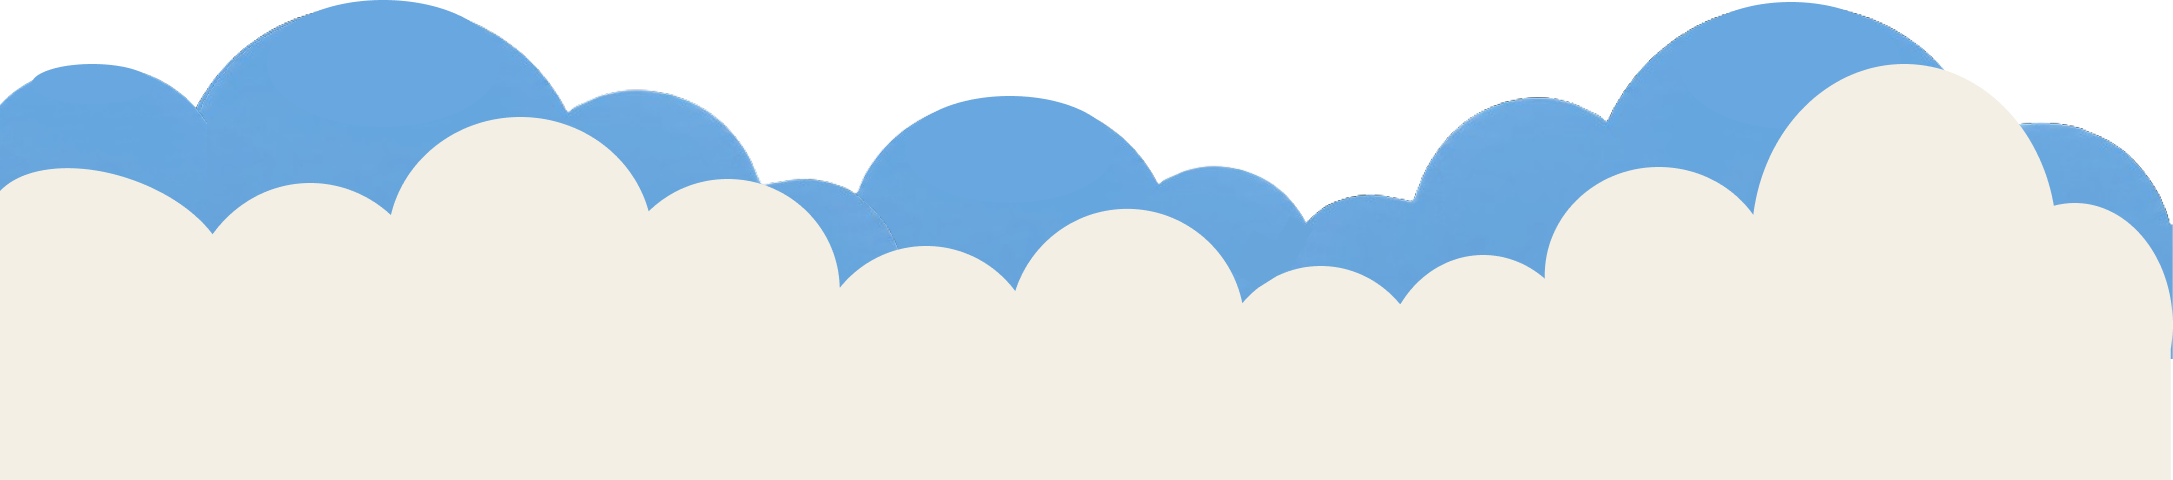
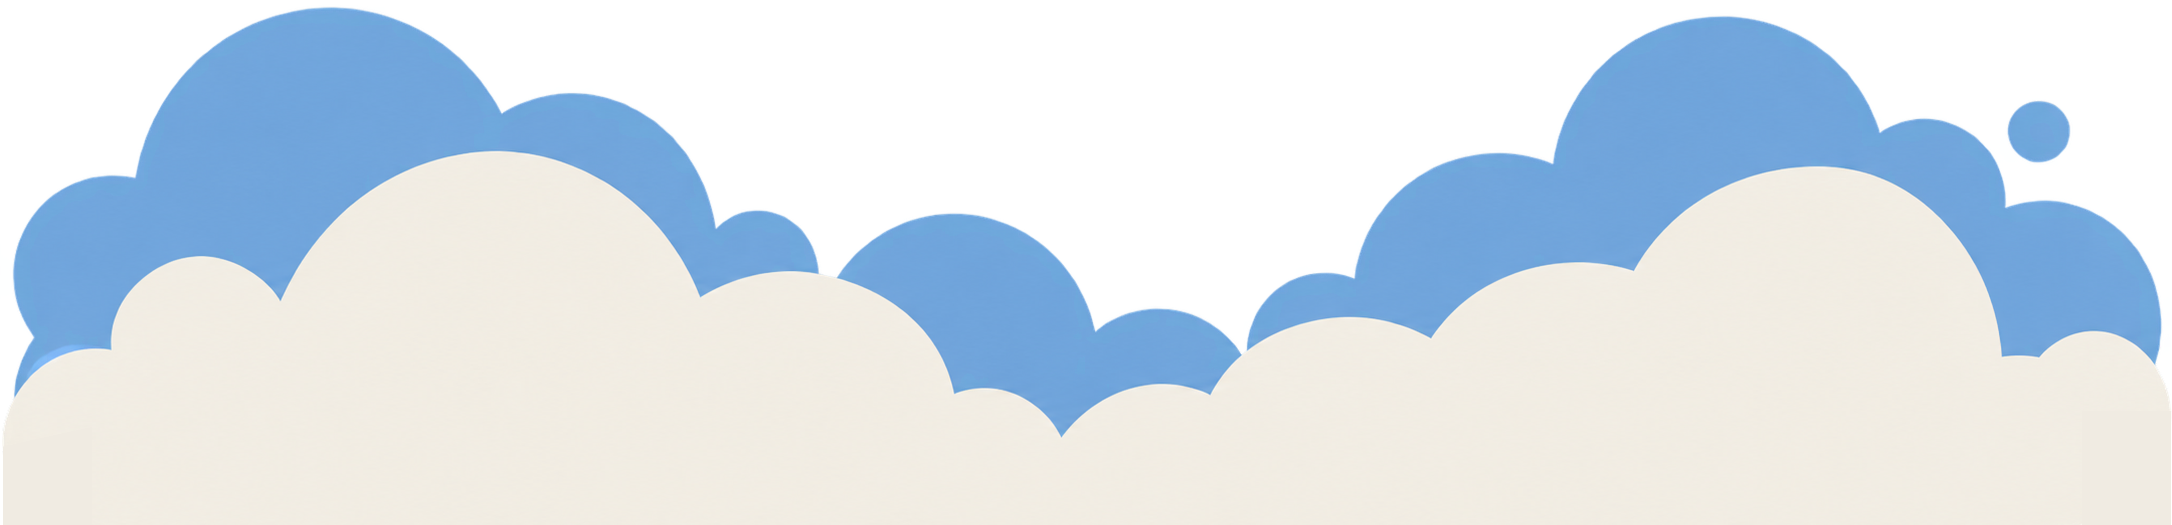
redesign hero-section

Changed region(s): [[0.0, 0.0, 1.0, 0.8125]]

diff --git a/components/user/landing/hero-section.tsx b/components/user/landing/hero-section.tsx
@@ -1,61 +1,63 @@
+"use client";
+
 import Navbar from "@/components/user/navbar";
 import HeroRobot from "@/components/user/landing/robot";
 import Awan from "@/components/user/landing/awan";
 import Link from "next/link";
-import { ArrowRight, Play, Bot, Rocket, Smile } from "lucide-react";
+import { ArrowRight, Play, Bot, Rocket, BookOpen } from "lucide-react";
 
 export default function HeroSection() {
   return (
-    <section className="relative bg-accent-blue pt-4 pb-53 sm:pb-64 overflow-visible">
+    <section className="relative bg-[#175B92] pt-4 pb-20 sm:pb-32 lg:pb-48 overflow-visible">
       {/* Navigation Bar */}
-      <header className="relative z-20 px-4 mb-6 md:mb-10 w-full flex justify-center">
+      <header className="relative z-20 px-4 mb-6 md:mb-10 w-full flex justify-center [&>nav]:!h-[64px] md:[&>nav]:!h-[95px] [&>nav]:!px-4 sm:[&>nav]:!px-8 md:[&>nav]:!px-12 [&>nav]:!mt-2 md:[&>nav]:!mt-4 [&_span]:!text-[22px] [&_span]:sm:!text-2xl [&_span]:md:!text-[32px] [&_span]:!leading-normal [&_img]:!w-7 [&_img]:!h-7 md:[&_img]:!w-auto md:[&_img]:!h-auto">
         <Navbar />
       </header>
 
-      {/* Hero Main Content */}
-      <div className="relative z-10 max-w-7xl mx-auto px-6 grid grid-cols-1 lg:grid-cols-12 gap-10 lg:gap-8 items-center pt-2">
+      {/* Hero Main Content (Ditambahkan pl-4 sm:pl-8 lg:pl-10 agar bergeser sedikit ke kanan secara halus) */}
+      <div className="relative z-10 max-w-6xl mx-auto px-6 pl-8 sm:pl-12 lg:pl-14 grid grid-cols-1 lg:grid-cols-12 gap-4 lg:gap-2 items-center pt-2">
         {/* Left Column: Text & Action */}
-        <div className="lg:col-span-7 flex flex-col items-start space-y-6 text-left">
+        <div className="lg:col-span-7 flex flex-col items-start space-y-4.5 text-left lg:pl-6">
           {/* Main Title */}
-          <h1 className="font-heading text-4xl sm:text-5xl lg:text-6xl font-bold leading-[1.15] text-[#3D2900] tracking-tight">
-            Rakit & Mainkan Robot Impian Anak{" "}
-            <span className="relative inline-block px-3 py-1 bg-accent-yellow rounded-2xl border-2 border-[#3D2900] neo-shadow rotate-[-1.5deg] text-primary">
-              Usia 6+ Tahun!
-            </span>
-          </h1>
+       <h1 className="font-heading text-3xl sm:text-4xl lg:text-5xl font-bold leading-[1.18] text-white tracking-tight">
+              Rakit & Mainkan Robot Impian Anak{" "}
+              <span className="relative inline-block mt-4 sm:mt-6 px-2.5 py-0.5 bg-accent-yellow rounded-xl rotate-[-2deg] text-primary text-[0.85em]">
+                Usia 6+ Tahun!
+              </span>
+            </h1>
 
           {/* Subtitle */}
-          <p className="font-body text-base sm:text-lg lg:text-xl text-[#3D2900]/85 leading-relaxed max-w-2xl">
-            Bantu si kecil belajar coding dan logika teknologi sejak dini melalui kit robotik interaktif yang seru, aman, dan mudah dimainkan untuk usia 6 tahun ke atas.
-          </p>
+          <p className="font-body text-sm sm:text-base text-white/90 leading-relaxed max-w-lg font-normal">
+    Bantu si kecil belajar coding dan logika teknologi sejak dini melalui kit robotik interaktif yang seru, aman, dan mudah dimainkan.
+  </p>
 
           {/* CTA Buttons */}
-          <div className="flex flex-wrap items-center gap-4 pt-2">
-            <Link
-              href="/product"
-              className="inline-flex items-center gap-3 bg-primary hover:bg-primary-600 text-white font-bold text-base sm:text-lg px-7 py-3.5 rounded-full border-2 border-[#3D2900] neo-shadow neo-shadow-hover transition-all duration-200"
-            >
-              <span>Jelajahi Mainan Robot</span>
-              <ArrowRight className="w-5 h-5" />
-            </Link>
+        {/* CTA Buttons */}
+<div className="flex flex-col sm:flex-row items-center gap-3 pt-3 w-full sm:w-auto">
+ {/* Primary CTA */}
+<Link
+  href="/product"
+  className="inline-flex items-center justify-center gap-2.5 bg-[#FFF6A0] hover:bg-[#ffadd4] text-[#3D2900] font-extrabold text-sm px-6 py-3.5 rounded-full shadow-md hover:scale-105 transition-all w-full sm:w-auto"
+>
+  <span>Jelajahi Mainan Robot</span>
+  <ArrowRight className="w-4 h-4 text-[#3D2900]" />
+</Link>
 
-            <button
-              type="button"
-              className="inline-flex items-center gap-2.5 bg-card hover:bg-muted text-[#3D2900] font-bold text-base sm:text-lg px-6 py-3.5 rounded-full border-2 border-[#3D2900] neo-shadow neo-shadow-hover transition-all duration-200 cursor-pointer"
-            >
-              <div className="w-8 h-8 rounded-full bg-accent-yellow flex items-center justify-center border border-[#3D2900]">
-                <Play className="w-4 h-4 text-[#3D2900] fill-[#3D2900] ml-0.5" />
-              </div>
-              <span>Tonton Demo</span>
-            </button>
-          </div>
-
-          {/* Feature Highlights / Stats */}
-          
+  {/* Secondary CTA (Outlined Glass Transparan) */}
+  <button
+    type="button"
+    className="inline-flex items-center justify-center gap-2.5 bg-white/10 hover:bg-white/20 text-white font-bold text-sm px-6 py-3.5 rounded-full border border-white/40 backdrop-blur-sm transition-all w-full sm:w-auto cursor-pointer"
+  >
+    <div className="w-6 h-6 rounded-full bg-white/20 flex items-center justify-center">
+      <Play className="w-3 h-3 text-white fill-white ml-0.5" />
+    </div>
+    <span>Tonton Demo</span>
+  </button>
+</div>
         </div>
 
         {/* Right Column: Waving Robot Visual */}
-        <div className="lg:col-span-5 flex justify-center items-center relative">
+        <div className="lg:col-span-5 flex justify-center items-center relative lg:-ml-6">
           <HeroRobot />
         </div>
       </div>

diff --git a/components/user/landing/robot.tsx b/components/user/landing/robot.tsx
@@ -4,52 +4,44 @@ import Image from "next/image";
 
 export default function HeroRobot() {
   return (
-    <div className="relative w-full max-w-[320px] sm:max-w-[360px] lg:max-w-[400px] aspect-[269/449] mx-auto flex items-center justify-center">
+    <div className="relative w-full max-w-[170px] min-[400px]:max-w-[190px] sm:max-w-[230px] md:max-w-[260px] lg:max-w-[290px] aspect-[269/449] mx-auto flex items-center justify-center">
       {/* Decorative background glow behind robot */}
       <div 
-        className="absolute top-1/2 left-1/2 -translate-x-1/2 -translate-y-1/2 w-[85%] h-[85%] rounded-full blur-2xl opacity-50 pointer-events-none -z-10"
-        style={{
-          background: "radial-gradient(circle, #8ED8FF 0%, #C9E9F6 70%, transparent 100%)",
-        }}
+        className="absolute top-1/2 left-1/2 -translate-x-1/2 -translate-y-1/2 w-[85%] h-[85%] rounded-full blur-2xl opacity-50 pointer-events-none -z-10 bg-accent-yellow/40"
       />
-
-      {/* Floating Badges */}
-      {/* <div className="absolute top-[10%] left-[-7%] z-20 animate-bounce transition-transform duration-1000" style={{ animationDuration: "3.5s" }}>
-       <span className="inline-flex items-center gap-7 bg-white/95 backdrop-blur-md px-9 py-4 rounded-full text-xs sm:text-sm font-bold text-[#3D2900] shadow-lg border-2 border-[#3D2900]/20">
-          ✨ Interactive
-        </span>
-      </div> */}
-
-      {/* <div className="absolute bottom-[16%] right-[-4%] z-20 animate-pulse transition-transform duration-1000 pb-5" style={{ animationDuration: "4s" }}>
-        <span className="inline-flex items-center gap-2 bg-[#FAF1CA] px-9 py-3 rounded-full text-xs sm:text-sm font-bold text-[#3D2900] neo-shadow border-2 border-[#3D2900]">
-          🤖 Edu-Bot 3.0
-        </span>
-      </div> */}
 
       {/* Robot Wrapper */}
       <div className="relative w-full h-full">
-        {/* Waving Hand (Shifted further right and slightly down) */}
+        {/* Waving Hand Container */}
         <div
-          className="absolute z-0 pointer-events-none animate-waving-hand translate-x-12 sm:translate-x-14"
+          className="absolute z-0 pointer-events-none"
           style={{
             width: "52%",
             height: "40%",
             left: "63%", 
             top: "24%",
-            transformOrigin: "20% 82%",
+            transform: "translateX(27%)",
           }}
         >
-          <Image
-            src="/images/hand.png"
-            alt="RoboEdu Robot Waving Hand"
-            fill
-            sizes="(max-width: 768px) 100vw, 300px"
-            className="object-contain object-right"
-            priority
-          />
+          {/* Waving Hand */}
+          <div
+            className="relative w-full h-full animate-waving-hand"
+            style={{
+              transformOrigin: "20% 82%",
+            }}
+          >
+            <Image
+              src="/images/hand.png"
+              alt="RoboEdu Robot Waving Hand"
+              fill
+              sizes="(max-width: 768px) 100vw, 300px"
+              className="object-contain object-right"
+              priority
+            />
+          </div>
         </div>
 
-        {/* Robot Body (In Front) */}
+        {/* Robot Body */}
         <div className="relative z-10 w-full h-full pointer-events-none">
           <Image
             src="/images/body.png"
@@ -60,12 +52,6 @@ export default function HeroRobot() {
             priority
           />
         </div>
-
-        {/* Ellipse Shadow (Bayangan Elips Memanjang ke Kanan di Bawah Robot) */}
-       {/* Ellipse Shadow (Diturunkan dan Dibuat Lebih Panjang ke Kanan) */}
-        <div 
-          className="absolute -bottom-2 left-1/2 -translate-x-1/2 w-[80%] h-[10%] rounded-[100%] bg-[#3D2900]/15 blur-[8px] pointer-events-none z-0 translate-x-[-45%] scale-x-125"
-        />
       </div>
     </div>
   );

diff --git a/components/user/landing/awan.tsx b/components/user/landing/awan.tsx
@@ -4,7 +4,7 @@ export default function Awan() {
   return (
     <div className="absolute bottom-0 left-0 right-0 z-2 pointer-events-none leading-none">
       <Image
-        src="/images/awn.png"
+        src="/images/11.png"
         alt="Ilustrasi Awan"
         width={1920}
         height={150}
